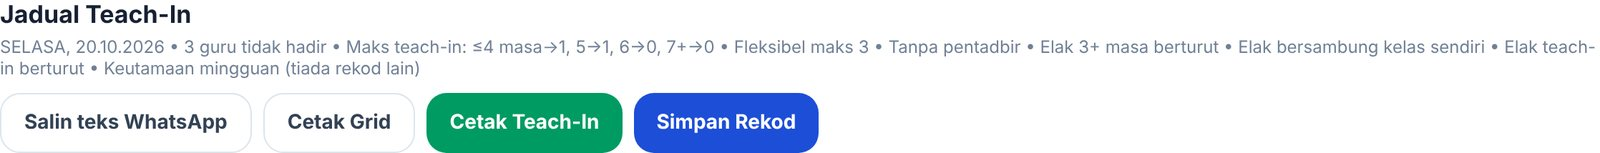
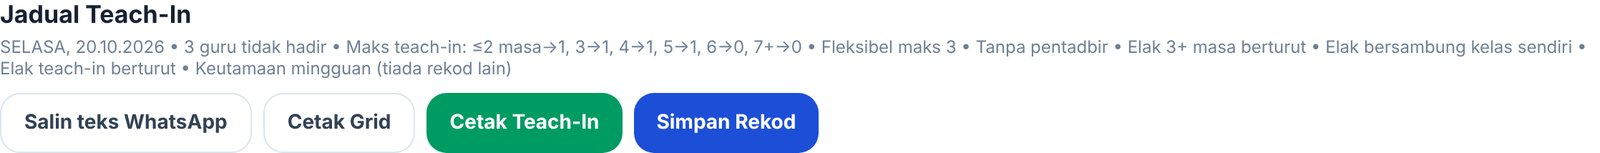
panduan-ganti: kemas kini had teach-in 2/3 masa dan gambar skrin terkini
Claude-Session: https://claude.ai/code/session_01J7WbYUoFL3o8UG4Ew1vmZv

Changed region(s): [[0.2812, 0.2614, 1.0, 0.366], [0.0, 0.3922, 0.3125, 0.5229]]

diff --git a/panduan-ganti.html b/panduan-ganti.html
@@ -82,7 +82,7 @@
       <div><b>10</b>Soalan lazim</div>
     </div>
   </div>
-  <div class="meta">Dikemas kini 23 Oktober 2026 • Alamat: ICT HUB → Guru Ganti (…/tools/ganti.html) • Disediakan oleh Unit ICT</div>
+  <div class="meta">Dikemas kini 28 Oktober 2026 • Alamat: ICT HUB → Guru Ganti (…/tools/ganti.html) • Disediakan oleh Unit ICT</div>
 </div>
 
 <!-- ============ 1. PENGENALAN ============ -->
@@ -420,7 +420,7 @@
       <rect x="40"  y="242" width="230" height="52" rx="10" fill="#10a36d"/><text x="56" y="264" fill="#fff" font-weight="800">2. Tukar manual</text><text x="56" y="282" fill="#dcfce7" font-size="11">dropdown Senarai masa ganti</text>
       <rect x="80"  y="184" width="250" height="52" rx="10" fill="#0e9f8f"/><text x="96" y="206" fill="#fff" font-weight="800">3. Naikkan had guru fleksibel</text><text x="96" y="224" fill="#ccfbf1" font-size="11">cth. 2 → 4 masa</text>
       <rect x="120" y="126" width="280" height="52" rx="10" fill="#0e7490"/><text x="136" y="148" fill="#fff" font-weight="800">4. Longgarkan peraturan berturut-turut</text><text x="136" y="166" fill="#cffafe" font-size="11">nyahtanda satu demi satu</text>
-      <rect x="160" y="68"  width="270" height="52" rx="10" fill="#1d4ed8"/><text x="176" y="90" fill="#fff" font-weight="800">5. Naikkan had beban</text><text x="176" y="108" fill="#dbeafe" font-size="11">cth. 4 masa ke bawah: 1 → 2</text>
+      <rect x="160" y="68"  width="270" height="52" rx="10" fill="#1d4ed8"/><text x="176" y="90" fill="#fff" font-weight="800">5. Naikkan had beban</text><text x="176" y="108" fill="#dbeafe" font-size="11">cth. guru 3 masa: 1 → 2</text>
       <rect x="200" y="10"  width="300" height="52" rx="10" fill="#4338ca"/><text x="216" y="32" fill="#fff" font-weight="800">6. Libatkan pentadbir / pecah kolaborasi</text><text x="216" y="50" fill="#e0e7ff" font-size="11">maks 1–2 masa sehari</text>
     </g>
     <rect x="530" y="10" width="190" height="342" rx="14" fill="#fff8eb" stroke="#d97706" stroke-width="2"/>
